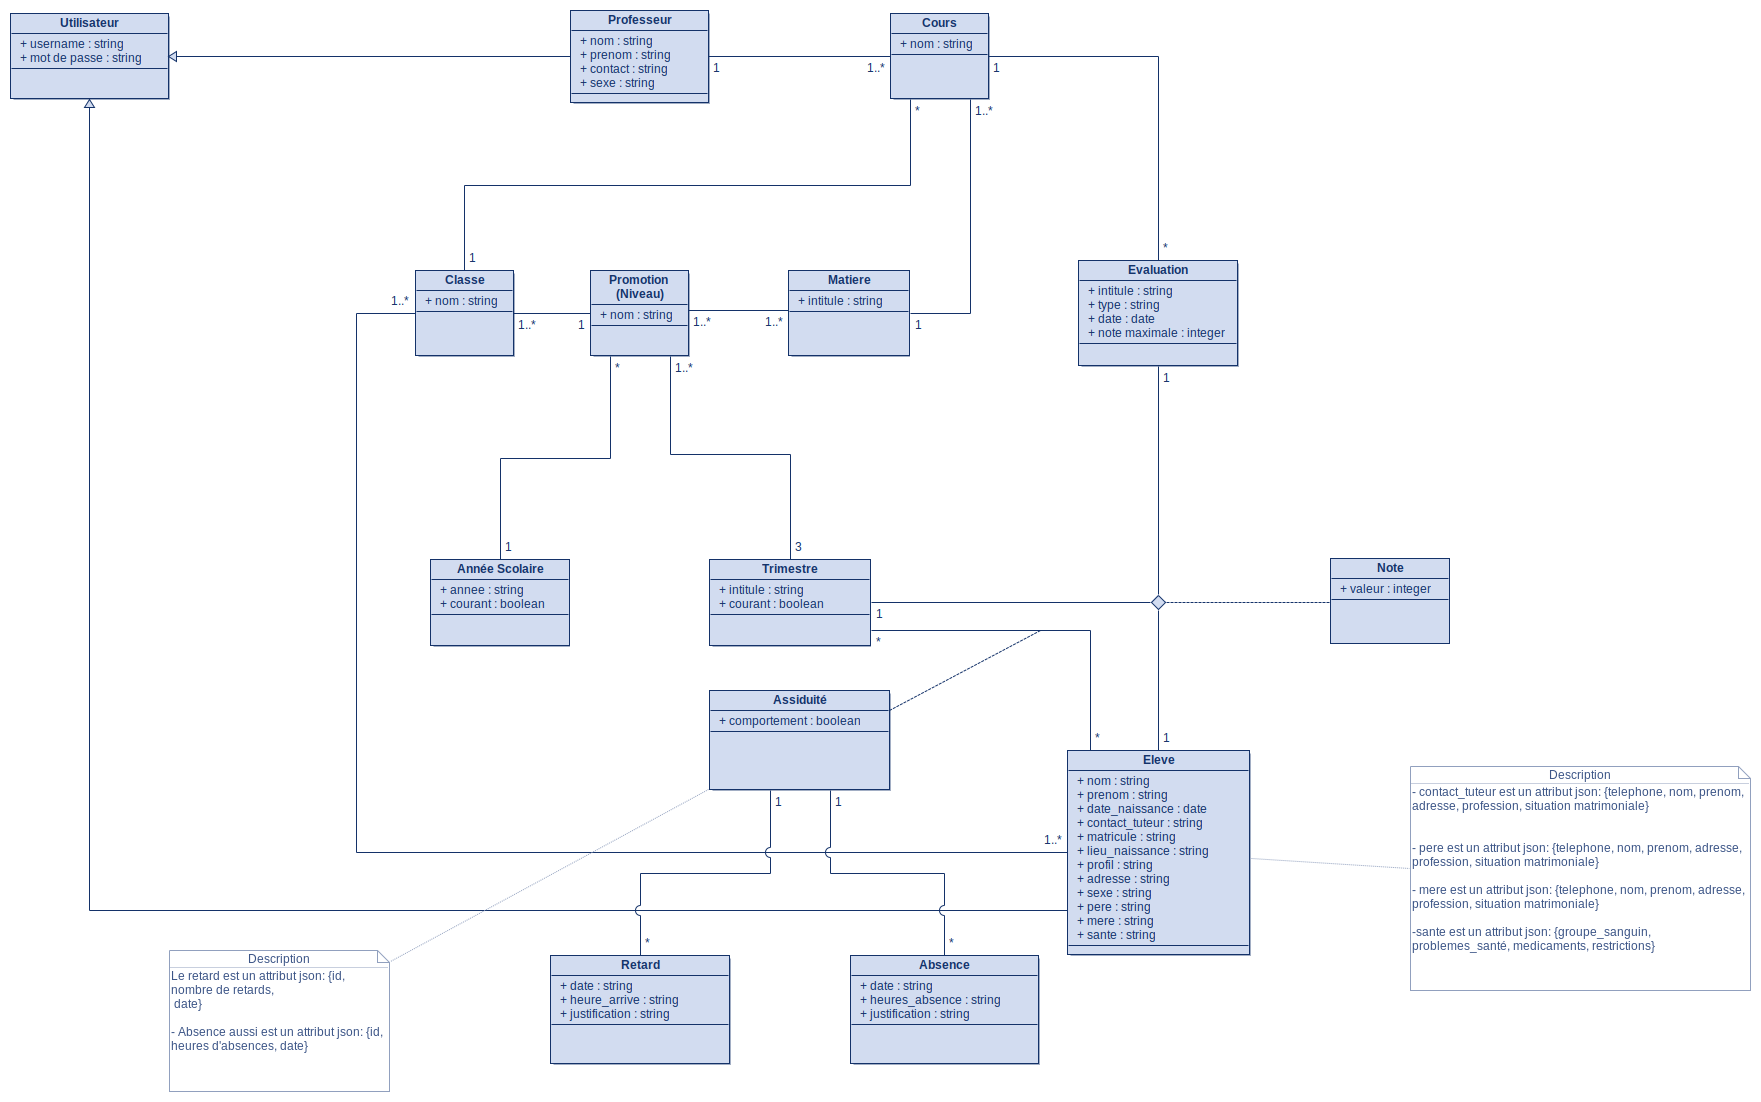
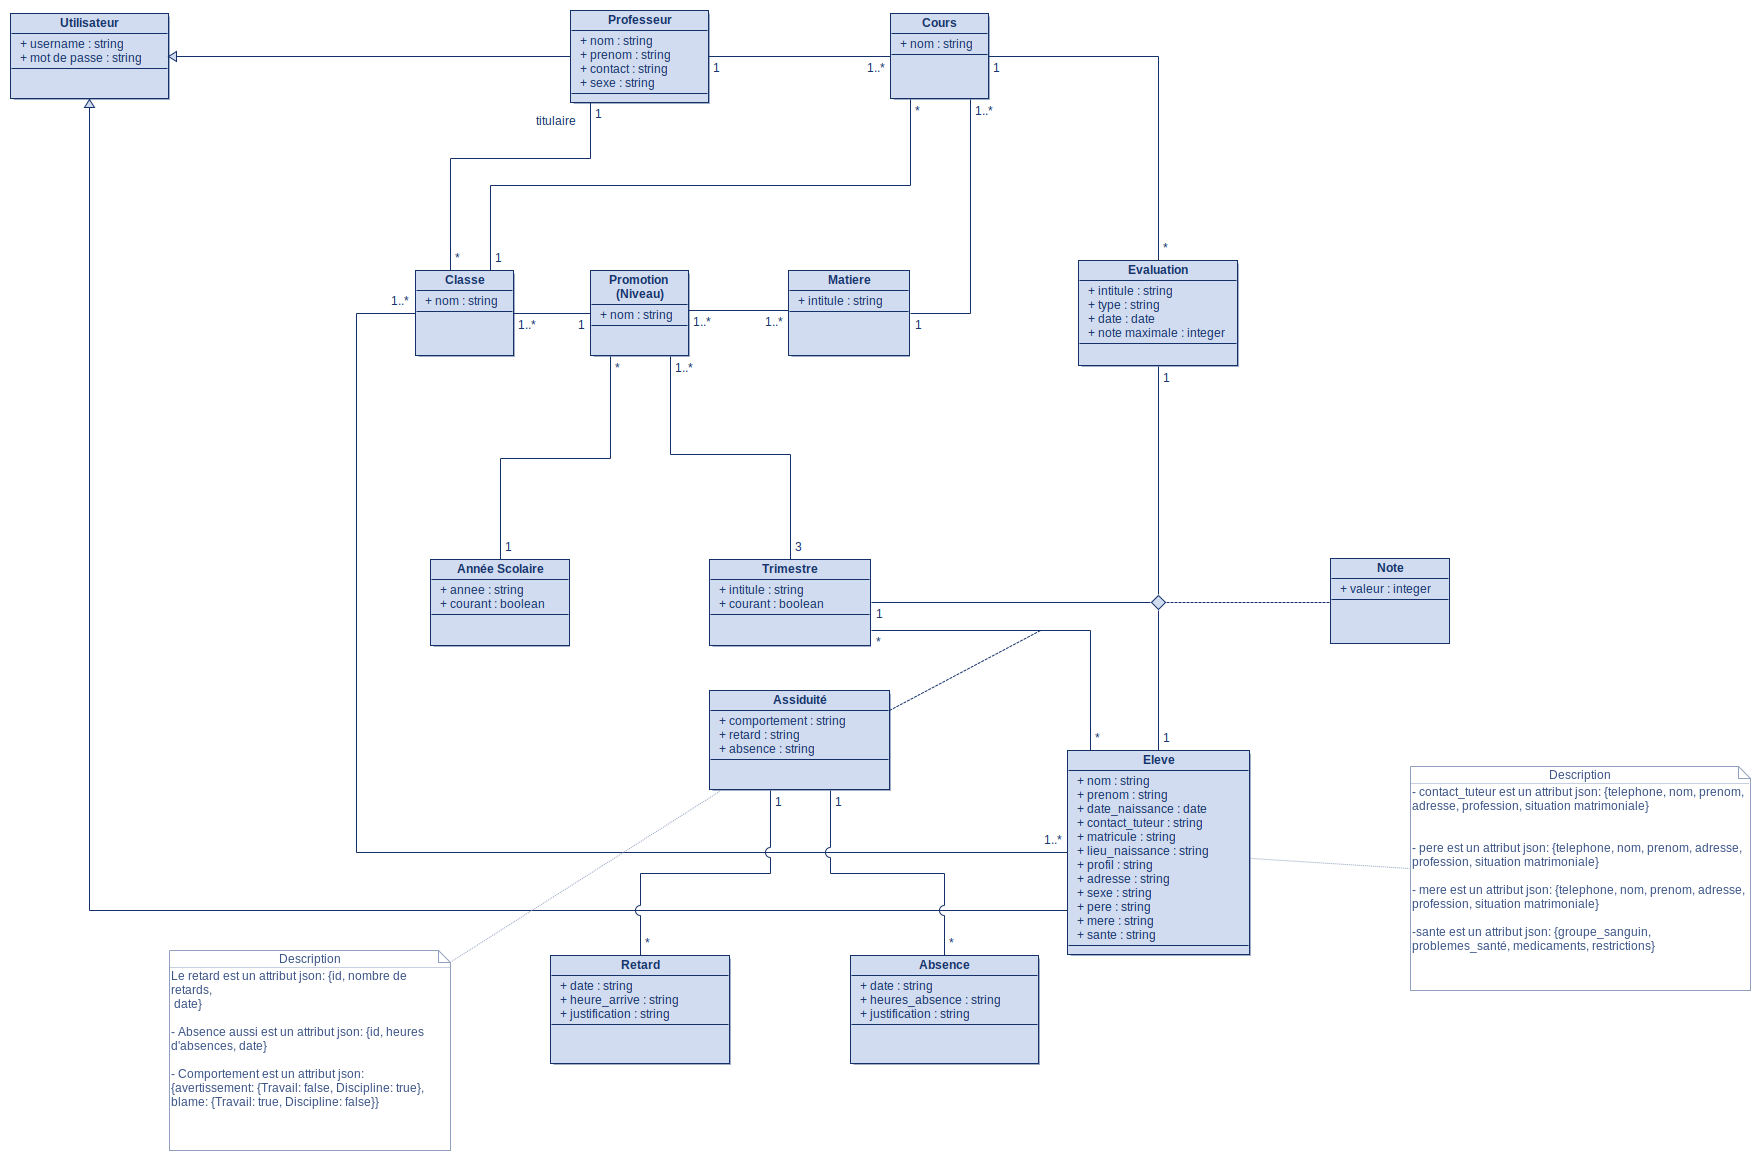
modification du modèle classe ajout des tuteurs, correction insertion du json de comportement

diff --git a/CPLMonAvenirApp/resources/views/professeur/index.blade.php b/CPLMonAvenirApp/resources/views/professeur/index.blade.php
@@ -68,6 +68,7 @@
                                 <th class="text-center">Nom Prénom</th>
                                 <th class="text-center">Sexe</th>
                                 <th class="text-center" style="width: 200px;">Contact</th>
+                                <th class="text-center">Classe tutorée</th>
                                 <th class="text-center" style="width: 200px;" class="text-center">Actions</th>
                             </tr>
                         </thead>
@@ -86,8 +87,21 @@
                                         <td class="text-center text-primary fw-bolder" style="font-weight: 700">
                                             {{ $professeur->contact }}</td>
                                         <td class="text-center">{{ $professeur->sexe }}</td>
-
-
+                                        <td class="text-center">
+                                            @if ($professeur->classes)
+                                                @foreach ($promotions as $promotion)
+                                                    @foreach ($promotion->classes as $classe)
+                                                        @foreach ($professeur->classes as $prof_classe)
+                                                            @if ($prof_classe->id === $classe->id)
+                                                                {{ substr($prof_classe->nom, 0, 6) }}
+                                                            @endif
+                                                        @endforeach
+                                                    @endforeach
+                                                @endforeach
+                                            @else
+                                                Pas de classe
+                                            @endif
+                                        </td>
                                         <td class="text-center">
                                             <div class="d-flex justify-content-around">
                                                 <a href="{{ route('professeur.edit', $professeur->id) }}"

diff --git a/CPLMonAvenirApp/app/Http/Controllers/ProfesseurController.php b/CPLMonAvenirApp/app/Http/Controllers/ProfesseurController.php
@@ -2,6 +2,8 @@
 
 namespace App\Http\Controllers;
 
+use App\Models\AnneeScolaire;
+use App\Models\Classe;
 use App\Models\Professeur;
 use App\Models\User;
 use Illuminate\Http\Request;
@@ -44,7 +46,18 @@ class ProfesseurController extends Controller
 
     public function edit(Professeur $professeur)
     {
+        $classes = [];
+        $anneeScolaire = AnneeScolaire::getAnneeScolaire();
+        $promotions = $anneeScolaire->promotions;
+        foreach ($promotions as $promotion) {
+            foreach ($promotion->classes as $classe) {
+                if ($classe->professeur === null || ($classe->professeur->id === $professeur->id)) {
+                    array_push($classes, $classe);
+                }
+            }
+        }
         $data = [
+            'classes' => $classes,
             'professeur' => $professeur
         ];
 
@@ -54,6 +67,19 @@ class ProfesseurController extends Controller
     public function update(Request $request, Professeur $professeur)
     {
         $professeur->update($request->all());
+
+        if ($request->classe_id && $request->classe_id === 'aucune') {
+            $classe = Classe::find($professeur->classe->id);
+            $classe->update([
+                'professeur_id' => null
+            ]);
+        } else {
+            $classe = Classe::find($request->classe_id);
+
+            $classe->update([
+                'professeur_id' => $professeur->id
+            ]);
+        }
 
         return redirect()->to(route('professeur.index'))->with('notification', ['type' =>  'success', 'message' =>  "Enseignant modifié"]);
     }

diff --git a/CPLMonAvenirApp/app/Http/Controllers/ClasseController.php b/CPLMonAvenirApp/app/Http/Controllers/ClasseController.php
@@ -4,6 +4,7 @@ namespace App\Http\Controllers;
 
 use App\Models\Classe;
 use App\Models\Cours;
+use App\Models\Professeur;
 use App\Models\Promotion;
 use Illuminate\Http\Request;
 use Illuminate\View\ViewException;
@@ -38,7 +39,16 @@ class ClasseController extends Controller
 
     public function create(Promotion $promotion)
     {
+        $temp_professeurs = Professeur::all();
+        $professeurs = [];
+        foreach ($temp_professeurs as $professeur) {
+            if ($professeur->classe === null) {
+                array_push($professeurs, $professeur);
+            }
+        }
+
         $data = [
+            'professeurs' => $professeurs,
             'promotion' => $promotion
         ];
 
@@ -47,13 +57,18 @@ class ClasseController extends Controller
 
     public function store(Request $request)
     {
+        $request->validate([
+            'professeur_id' => ['bail|unique:classes']
+        ]);
+
         $url = url()->previous();
         $promotion = Promotion::find($request->promotion_id);
 
 
         $classe = Classe::create([
             'nom' => $promotion->nom . 'eme' . ' ' .  $request->nom . ' ' . $promotion->anneeScolaire->annee,
-            'promotion_id' => $promotion->id
+            'promotion_id' => $promotion->id,
+            'professeur_id' => $request->professeur_id
         ]);
 
         // on récupère les matières de la promotion

diff --git a/CPLMonAvenirApp/resources/views/professeur/edit.blade.php b/CPLMonAvenirApp/resources/views/professeur/edit.blade.php
@@ -87,6 +87,17 @@
                             <input type="telephone" name="contact" value="{{ $professeur->contact }}"
                                 class="form-control form-control-alt" />
                         </div>
+                        <div class="form-group col-lg-3">
+                            <label for="">Classe tutorée</label>
+                            <select class="form-control form-control-alt" name="classe_id" id="" required>
+                                <option value="">Selectionnez la classe tutorée</option>
+                                <option value="aucune">Aucune</option>
+                                @foreach ($classes as $classe)
+                                    <option value="{{ $classe->id }}" @if ($professeur->classe && $professeur->classe->id === $classe->id) selected @endif>
+                                        {{ substr($classe->nom, 0, 6) }}</option>
+                                @endforeach
+                            </select>
+                        </div>
                     </div>
                     <div class="row mx-0 px-0 py-2 justify-content-center">
                         <button class="btn btn-success col-lg-4" type="submit">

diff --git a/CPLMonAvenirApp/resources/views/latex/bulletin.blade.php b/CPLMonAvenirApp/resources/views/latex/bulletin.blade.php
@@ -182,13 +182,13 @@ Absences: @latex(count($assiduite->absences)) & \\
 Absences évaluées en heures: @latex($heures_absences)h & \\
 @php
     $comportement = json_decode($assiduite->comportement);
-    $avertissement = json_decode($comportement->avertissement);
-    $blame = json_decode($comportement->blame);
+    $avertissement = $comportement->avertissement;
+    $blame = $comportement->blame;
 @endphp
 Avertissement: @if ($avertissement->Travail === true) Travail @endif @if ($avertissement->Discipline === true) Discipline @endif & \\
 Blâme pour: @if ($blame->Travail === true) Travail @endif @if ($blame->Discipline === true) Discipline @endif & \\
 \hline
-Nom et signature du titulaire: & Sokodé, le \large \today\\
+Nom et signature du titulaire: @if($classe->professeur) @latex($classe->professeur->nom) @latex($classe->professeur->prenom) @endif & Sokodé, le \large \today\\
 & \textbf{Le Directeur} \\
 & \\
 & \\

diff --git a/CPLMonAvenirApp/resources/views/classe/create.blade.php b/CPLMonAvenirApp/resources/views/classe/create.blade.php
@@ -71,6 +71,16 @@
                         <input type="text" class="form-control form-control-alt col-4 col-lg-1" name="nom"
                             required />
 
+                        <label for="" class="col-lg-2">Enseignant titulaire</label>
+
+                        <select name="professeur_id" id="" class="form-control form-control-alt col-lg-3" required>
+                            <option value="">Sélectionnez un titulaire</option>
+                            @foreach ($professeurs as $professeur)
+                                <option value="{{ $professeur->id }}">{{ $professeur->nom }} {{ $professeur->prenom }}
+                                </option>
+                            @endforeach
+                        </select>
+
                         <button class="btn btn-success mx-4" type="submit">Enregistrer</button>
                     </div>
                 </div>

diff --git a/CPLMonAvenirApp/app/Http/Controllers/AssiduiteController.php b/CPLMonAvenirApp/app/Http/Controllers/AssiduiteController.php
@@ -96,15 +96,13 @@ class AssiduiteController extends Controller
 
 
 
-        $comportement['avertissement'] = json_encode($comportement_avertissement);
-        $comportement['blame'] = json_encode($comportement_blame);
+        $comportement['avertissement'] = $comportement_avertissement;
+        $comportement['blame'] = $comportement_blame;
 
         $assiduite->update([
-            'comportement' => $comportement
+            'comportement' => json_encode($comportement)
         ]);
 
         return redirect()->to($url)->with('notification', ['type' =>  'success', 'message' => "Comportement de l'élève mis à jour"]);
-
-
     }
 }

diff --git a/CPLMonAvenirApp/resources/views/comportement/edit.blade.php b/CPLMonAvenirApp/resources/views/comportement/edit.blade.php
@@ -74,9 +74,10 @@
                     <div class="row mx-0 px-0 align-items-center justify-content-around">
 
                         @php
+
                             $comportement = json_decode($assiduite->comportement);
-                            $avertissement = json_decode($comportement->avertissement);
-                            $blame = json_decode($comportement->blame);
+                            $avertissement = $comportement->avertissement;
+                            $blame = $comportement->blame;
                         @endphp
 
                         <div class="form-group">

diff --git a/CPLMonAvenirApp/database/migrations/2023_11_23_165540_create_classes_table.php b/CPLMonAvenirApp/database/migrations/2023_11_23_165540_create_classes_table.php
@@ -14,7 +14,9 @@ return new class extends Migration
         Schema::create('classes', function (Blueprint $table) {
             $table->id();
             $table->string('nom');
+            $table->integer('professeur_id')->nullable();
             $table->integer('promotion_id');
+            $table->foreign('professeur_id')->references('id')->on('professeurs');
             $table->foreign('promotion_id')->references('id')->on('promotions')->onDelete('cascade');
             $table->timestamps();
         });

diff --git a/CPLMonAvenirApp/app/Models/Classe.php b/CPLMonAvenirApp/app/Models/Classe.php
@@ -11,7 +11,8 @@ class Classe extends Model
 
     protected $fillable = [
         'nom',
-        'promotion_id'
+        'promotion_id',
+        'professeur_id'
     ];
 
     public function promotion()
@@ -27,5 +28,10 @@ class Classe extends Model
     public function cours()
     {
         return $this->hasMany(Cours::class);
+    }
+
+    public function professeur()
+    {
+        return $this->belongsTo(Professeur::class);
     }
 }

diff --git a/CPLMonAvenirApp/app/Models/Professeur.php b/CPLMonAvenirApp/app/Models/Professeur.php
@@ -30,4 +30,9 @@ class Professeur extends Model
     {
         return $this->belongsTo(User::class);
     }
+
+    public function classes()
+    {
+        return $this->hasMany(Classe::class);
+    }
 }
